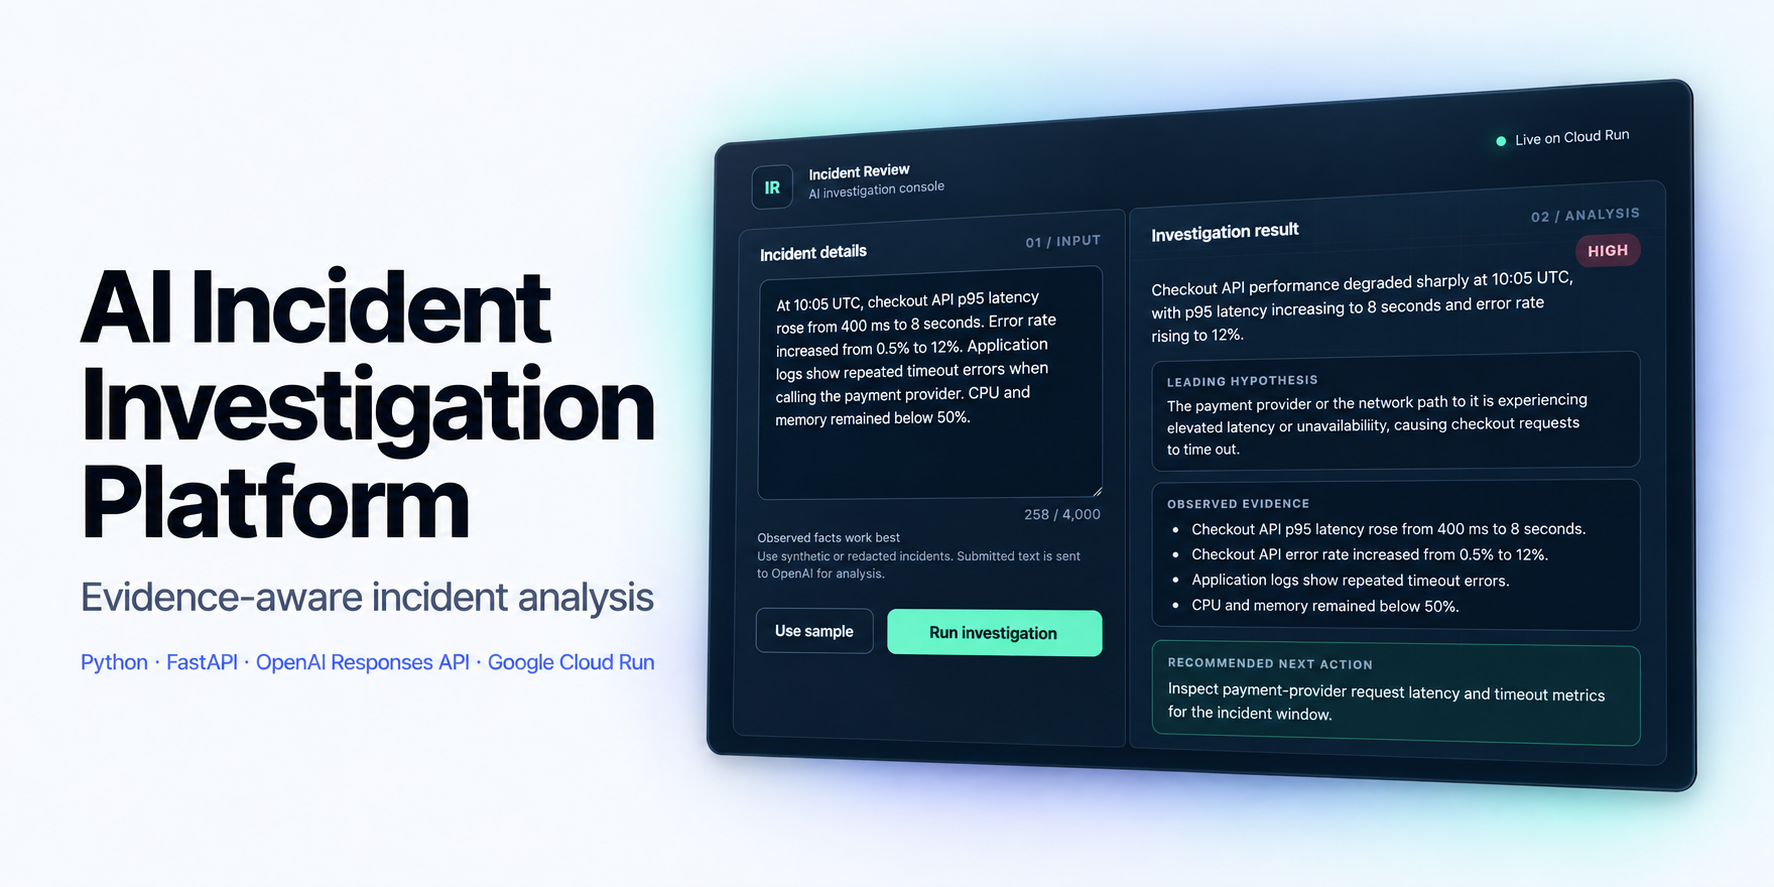
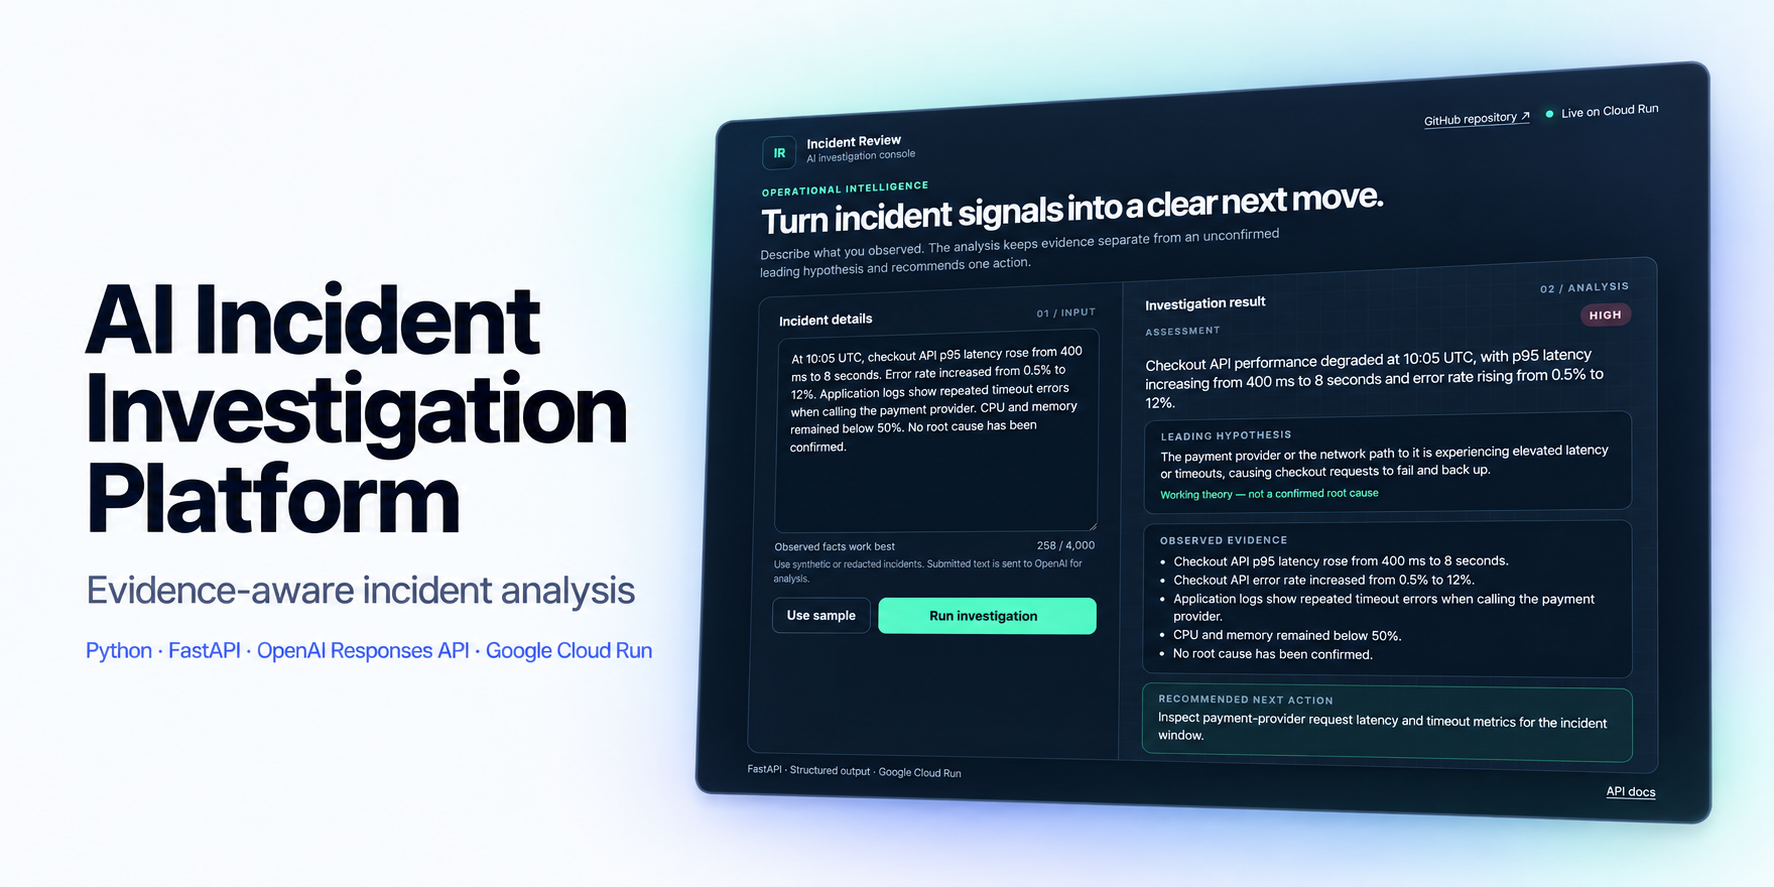
Update portfolio images and simplify footer

Changed region(s): [[0.031, 0.0609, 0.9921, 1.0], [0.434, 0.5479, 0.6201, 0.761]]

diff --git a/app/static/index.html b/app/static/index.html
@@ -404,7 +404,7 @@
 
       <footer>
         <span>FastAPI · Structured output · Google Cloud Run</span>
-        <span><a href="/docs">API docs</a> · <a href="https://github.com/Lucas1114/ai-incident-platform">Source code</a></span>
+        <span><a href="/docs">API docs</a></span>
       </footer>
     </div>
 
